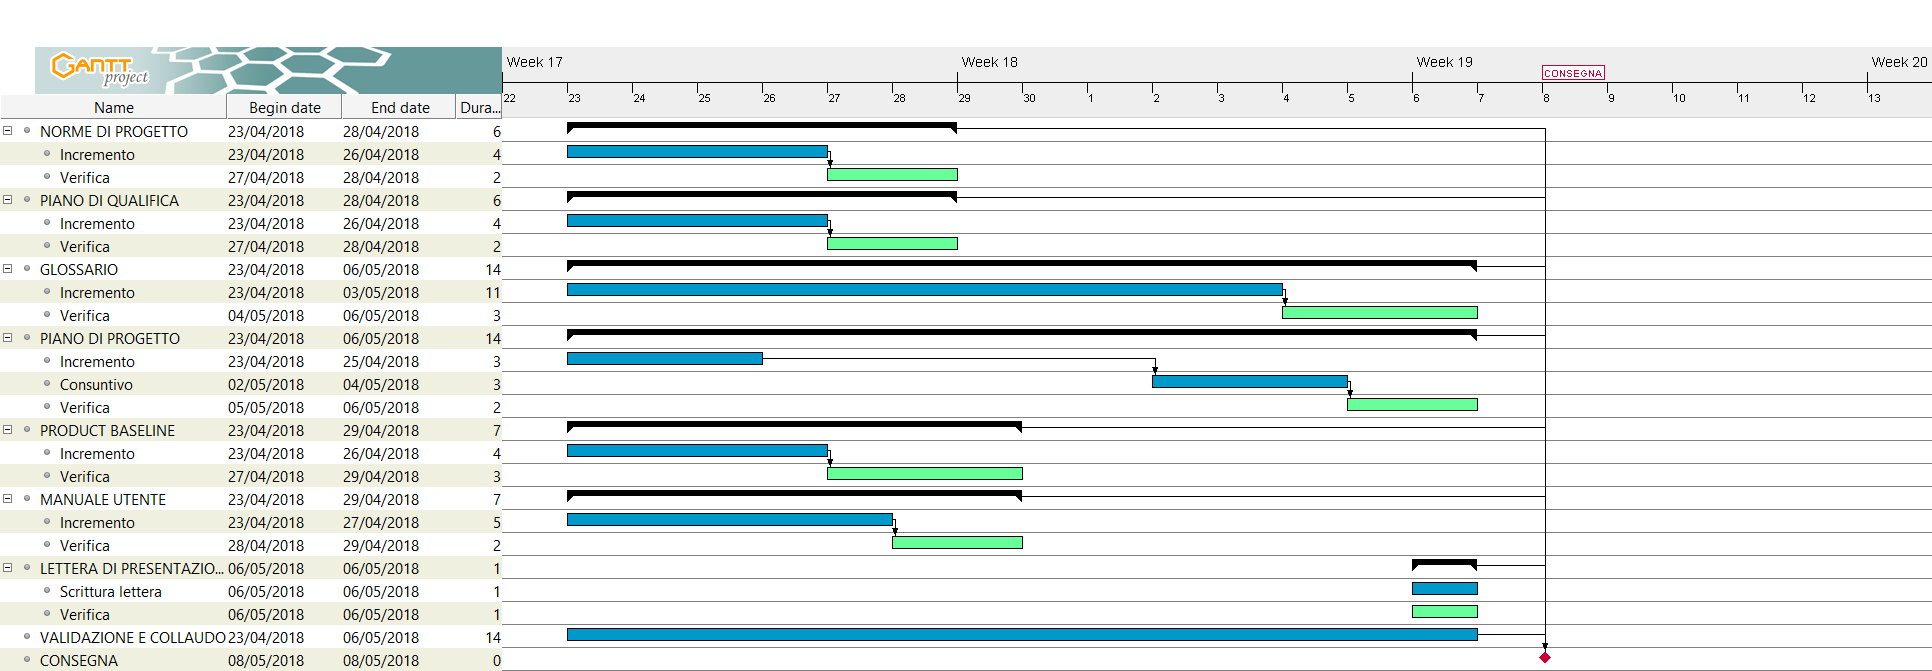
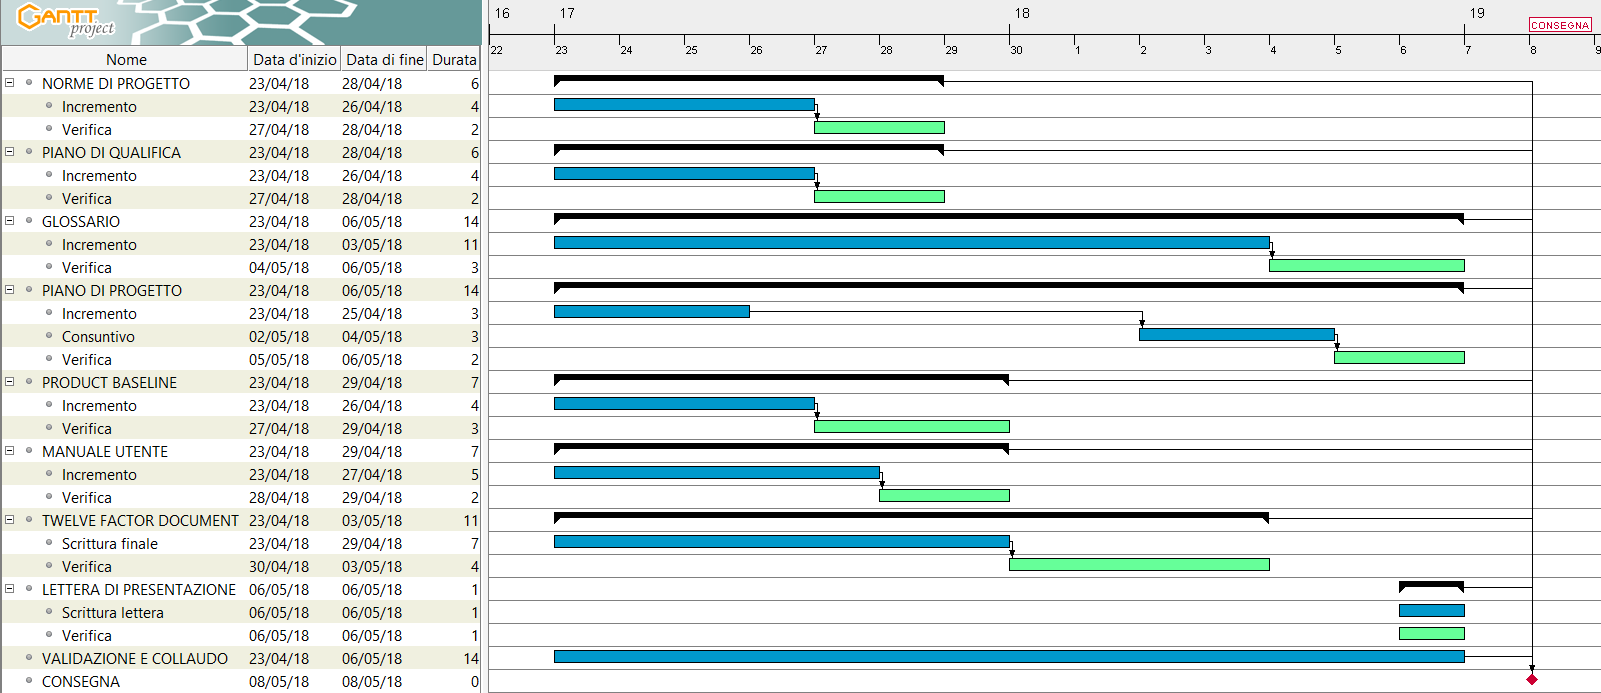
Fine modifiche post verifica pdp

diff --git a/Esterni - ENG/PianoDiProgetto/Pianificazione.tex b/Esterni - ENG/PianoDiProgetto/Pianificazione.tex
@@ -3,11 +3,11 @@
 \begin{document}
 
 \chapter{Pianificazione}
-La pianificazione del gruppo \gruppo\ è stata costruita sulla base delle scadenze riportate al punto di 1.5 di questo documento. Seguendo quelle scadenze è stato deciso di suddividere lo sviluppo in cinque periodi, raggruppati in due macro periodi:
+La pianificazione del gruppo \gruppo\ è stata costruita sulla base delle scadenze riportate al punto di \ref{scadenze} di questo documento. Seguendo quelle scadenze è stato deciso di suddividere lo sviluppo in cinque periodi, raggruppati in due macro periodi:
 \begin{itemize}
 	\item \textbf{Investimento:}
 		\begin{itemize}
-			\item \textbf{Analisi};
+			\item \textbf{Analisi dei requisiti};
 			\item \textbf{Consolidamento dei requisiti}.
 		\end{itemize}
 	\item \textbf{Preventivo:}
@@ -25,16 +25,15 @@ Sono state inoltre segnate come milestone anche le verifiche che avverranno sott
 \section{Analisi dei requisiti}
 Il periodo di analisi comincia il \nData{23}{11}{2017} e si conclude il \nData{16}{01}{2018}: l'inizio coincide con la formazione del gruppo e l'avviamento del lavoro; la conclusione con la scadenza scelta per la consegna dei documenti per l'entrata nel progetto. Durante questo periodo le attività principali svolte sono:
 \begin{itemize}
-	\item \textbf{Norme di Progetto:} questa attività consiste nella redazione delle \ndp, un documento redatto dall'Amministratore in cui sono elencate e stabilite tutte le norme a cui il gruppo \gruppo deve sottostare durante tutta la durata del progetto.\\ 
-	Questa attività è considerata critica dato che le \ndp\ sono essenziali, infatti esse stabiliscono anche le norme e gli strumenti che verranno usati per la stesura dei documenti stessi;
+	\item \textbf{Norme di Progetto:} questa attività consiste nella redazione delle \ndp, un documento redatto dall'Amministratore in cui sono elencate e stabilite tutte le norme a cui il gruppo \gruppo\ deve sottostare durante tutta la durata del progetto. Questa attività è considerata critica dato che le \ndp\ sono essenziali, infatti esse stabiliscono anche le norme e gli strumenti che verranno usati per la stesura dei documenti stessi;
 	\item \textbf{Studio di Fattibilità:} questa attività consiste nella redazione da parte degli Analisti dello \sdf, documento che contiene un'analisi dei vari capitolati proposti ed è essenziale per la scelta del capitolato che verrà svolto. L'attività è considerata critica ed è bloccante per l'inizio dell'\adr;
 	
-	\item \textbf{Analisi dei Requisiti}: questa attività prevede la stesura dell'\adr da parte degli Analisti. Questo documento contiene uno studio approfondito dei requisiti del capitolato scelto ed è un'attività importante e critica per il proseguimento del progetto;
+	\item \textbf{Analisi dei Requisiti}: questa attività prevede la stesura dell'\adr\ da parte degli Analisti. Questo documento contiene uno studio approfondito dei requisiti del capitolato scelto ed è un'attività importante e critica per il proseguimento del progetto;
 	
 	\item \textbf{Piano di Progetto:} questa attività consiste nella redazione del \pdp, documento nel quale il Responsabile analizza le attività necessarie e le loro scadenze per la buona riuscita del progetto. Inoltre durante questa attività vengono suddivise le risorse disponibili. L'attività è considerata critica e bloccante per la stesura della \lettera;
 	\item \textbf{Piano di Qualifica}: questa attività consiste nella redazione da parte degli Analisti del \pdq, dove si individuano i metodi per garantire la qualità del prodotto;
 	\item \textbf{Glossario:} questa attività consiste nella redazione del \g, dove verranno inseriti tutti i termini considerati possibilmente ambigui;
-	\item \textbf{Lettera di presentazione:} questa attività consiste nella redazione della \textit{Lettera di Presentazione} necessaria per la presentazione del gruppo \gruppo come fornitore. 	
+	\item \textbf{Lettera di presentazione:} questa attività consiste nella redazione della \textit{Lettera di Presentazione} necessaria per la presentazione del gruppo \gruppo\ come fornitore. 	
 \end{itemize}	
 \begin{landscape}
 \subsection{Analisi - Diagramma di Gantt}
@@ -48,12 +47,12 @@ Il periodo di consolidamento dei requisiti inizia il 16-01-2017 e termina il 26-
 \newpage
 
 \section{Progettazione della base tecnologica}
-Il periodo di Progettazione della base tecnologica inizia il 26-01-2017 e termina il 27-02-2017: comincia il giorno dopo la presentazione per la Revisione dei Requisiti e si conclude con la consegna dei documenti per la Revisione di Progettazione. In questo periodo, le attività principali sono:
+Il periodo di Progettazione della base tecnologica inizia il \nData{26}{01}{2017} e termina il \nData{27}{02}{2017}: comincia il giorno dopo la presentazione per la Revisione dei Requisiti e si conclude con la consegna dei documenti per la Revisione di Progettazione. In questo periodo, le attività principali sono:
 \begin{itemize}
-	\item \textbf{Incremento e Verifica:} all'inizio del periodo vengono svolte attività di Incremento e Verifica su vari documenti (\ndp, \pdp, \pdq\ e \adr) e dopo la discussione Agile per il documento \tb verrà svolta anche per quest'ultimo;
+	\item \textbf{Incremento e Verifica:} all'inizio del periodo vengono svolte attività di incremento e verifica su vari documenti (\ndp, \pdp, \pdq\ e \adr) e dopo la discussione Agile per il documento \tb\ verrà svolta anche per quest'ultimo;
 	\item \textbf{Glossario:} questa attività comprende sia il miglioramento del \g\ che l'aggiunta di nuovi termini;
-	\item \textbf{Lettera di presentazione:} questa attività prevede la stesura della \lettera per la Revisione di Progettazione;
-	\item \textbf{Technology Baseline:} questa attività prevede la stesura da parte dei Progettisti del documento \tb, contenete le scelte delle tecnologie, dei framework e delle librerie per lo sviluppo del prodotto e il Proof of Concept. Questa attività è considerata critica e bloccante per la prosecuzione del progetto. In una data ancora indefinita tra il 27-02-2017 e il 12-03-2017 avvererà una discussione in modalità Agile per la verifica di questo documento.
+	\item \textbf{Lettera di presentazione:} questa attività prevede la stesura della \lettera\ per la Revisione di Progettazione;
+	\item \textbf{Technology Baseline:} questa attività prevede la stesura da parte dei Progettisti del documento \tb, contenete le scelte delle tecnologie, dei framework e delle librerie per lo sviluppo del prodotto e il Proof of Concept. Questa attività è considerata critica e bloccante per la prosecuzione del progetto. In una data ancora indefinita tra il \nData{27}{02}{2017} e il \nData{12}{03}{2017} avvererà una discussione in modalità Agile per la verifica di questo documento.
 \end{itemize}
 \begin{landscape}
 	\subsection{Progettazione della base tecnologica - Diagramma di Gantt}
@@ -64,7 +63,7 @@ Il periodo di Progettazione della base tecnologica inizia il 26-01-2017 e termin
 \section{Progettazione di dettaglio e codifica}
 Il periodo di Progettazione di dettaglio e codifica inizia il 19-03-2018 e termina il 16-04-2017: comincia il giorno stesso della Revisione di Progettazione e si conclude con la consegna dei documenti per la Revisione di Qualifica. Durante questo periodo le attività principali svolte sono:
 \begin{itemize}
-	\item \textbf{Incremento e Verifica:} all'inizio del periodo vengono svolte attività di Incremento e Verifica su vari documenti (\ndp, \pdp, \pdq\ e \tb);
+	\item \textbf{Incremento e Verifica:} all'inizio del periodo vengono svolte attività di incremento e verifica su vari documenti (\ndp, \pdp, \pdq\ e \tb);
 	\item \textbf{Glossario:} questa attività comprende sia il miglioramento del \g\ che l'aggiunta di nuovi termini;
 	\item \textbf{Lettera di presentazione:} questa attività prevede la stesura della lettera di presentazione per la Revisione di Qualifica;
 	\item \textbf{Product Baseline:} questa attività presenta la \textit{baseline} architetturale del prodotto tramite i  diagrammi delle classi e di sequenza, mostrandone la coerenza con quanto mostrato durante l'attività di Technology Baseline. 
@@ -81,9 +80,10 @@ Il periodo di Progettazione di dettaglio e codifica inizia il 19-03-2018 e termi
 \section{Validazione e collaudo}
 Il periodo di Validazione e collaudo inizia con il 23-04-2018 e termina il 07-05-2018: comincia il giorno stesso della Revisione di Qualifica e si conclude con la consegna dei documenti per la Revisione di Accettazione. Durante questo periodo le attività principali svolte sono:
 \begin{itemize}
-\item \textbf{Incremento e Verifica:} all’inizio del periodo vengono svolte attività di Incremento e Verifica su vari documenti (\ndp, \pdp, \pdq, \pb e 12 \tfd) seguendo le indicazioni risultanti dalla Revisione di Qualifica;
+\item \textbf{Incremento e Verifica:} all’inizio del periodo vengono svolte attività di incremento e verifica su vari documenti (\ndp, \pdp, \pdq\ e \pb) seguendo le indicazioni risultanti dalla Revisione di Qualifica;
 \item \textbf{Glossario:} questa attività comprende sia il miglioramento del \g\ che l’aggiunta dei nuovi termini;
 \item \textbf{Validazione e Collaudo:} questa attività consiste nell’esecuzione di ulteriori test e miglioramenti dell'applicazione prodotto per assicurare che soddisfi tutti i vincoli qualitativi;
+\item \textbf{Twelve Factor Document:} questa attività prevede la stesura finale del documento \tfd;
 \item \textbf{Manuale Utente:} questa attività consiste nel miglioramento e completamento del \mut, contenente indicazioni sull’utilizzo dell'applicazione.
 
 \end{itemize}

diff --git a/Esterni - ENG/PianoDiProgetto/Preventivo.tex b/Esterni - ENG/PianoDiProgetto/Preventivo.tex
@@ -5,10 +5,16 @@
 \tabulinesep = ^3mm_2mm
 
 \chapter{Suddivisione risorse e preventivo}
-
-%TODO manca introduzione alla suddivisione 
-%TODO parlando della rotazione
-
+La suddivisione oraria viene fatta tenendo conto di \textbf{quattro regole} principali:
+\begin{enumerate}
+	\item Tutti i membri devono coprire tutti i ruoli di progetto almeno una volta;
+	\item In tutti i periodi tutti i membri devono lavorare lo stesso numero di ore;
+	\item Ogni membro del gruppo dovrà lavorare in totale ad almeno 8 ore per ogni figura di progetto, in modo da apprendere a pieno i compiti dei vari ruoli;
+	\item Il totale delle ore di lavoro dei vari membri per ogni ruolo dovrà essere più o meno equivalente.
+\end{enumerate}
+Per il preventivo si tiene conto che i periodi di Analisi dei requisiti e di Consolidamento dei requisiti sono considerati di investimento non a carico del committente, per cui le ore qui rendicontate non saranno conteggiate nelle ore totali da retribuire.\\\\
+Per facilitare la lettura delle tabelle gli i valori pari a 0 (zero) sono stati omessi, lasciando uno spazio vuoto.
+\newpage
 \section{Analisi dei requisiti}
 \subsection{Prospetto Orario}
 Nel periodo di Analisi la distribuzione oraria è la seguente:
@@ -34,11 +40,10 @@ Nel periodo di Analisi la distribuzione oraria è la seguente:
 			\Riccardo &  & 11 & 4 &  &  & 10 & 25 \\
 			\Valentina & 5 & 8 & 4 &  &  & 8 & 25 \\
 		\end{tabu}
-		\caption{Distribuzione oraria del periodo di Analisi}
+		\caption{Distribuzione oraria del periodo di Analisi dei requisiti}
 		\vspace{-1em}
 	\end{center}
-\end{table}
-\newpage	
+\end{table}	
 Il seguente grafico dà una rappresentazione visiva della suddivisione oraria:
 \nImg{images/prospettoOrario/analisi.png}{Grafico suddivisione oraria del periodo di Analisi}{14.5}
 \subsection{Prospetto Economico}
@@ -60,13 +65,12 @@ Nel periodo di Analisi la distribuzione delle ore tra i differenti ruoli è la s
 			\vere & 51 & 765,00 \\
 			\textbf{Totale} & \textbf{175} & \textbf{3.720,00} \\
 		\end{tabu}
-		\caption{Prospetto economico del periodo di Analisi}
+		\caption{Prospetto economico del periodo di Analisi dei requisiti}
 		\vspace{-1em}
 	\end{center}
 \end{table}
-\newpage
 Il seguente grafico dà una rappresentazione visiva della distribuzione dei ruoli:
-\nImg{images/prospettoEconomico/analisi.png}{Grafico suddivisione dei ruoli del periodo di Analisi}{14.5}
+\nImg{images/prospettoEconomico/analisi.png}{Grafico suddivisione dei ruoli del periodo di Analisi}{12}
 \newpage
 \section{Consolidamento dei requisiti}
 \subsection{Prospetto Orario}

diff --git a/Esterni - ENG/PianoDiProgetto/AnalisiDeiRischi.tex b/Esterni - ENG/PianoDiProgetto/AnalisiDeiRischi.tex
@@ -9,7 +9,6 @@ Nella seguente tabella è stata effettuata un’analisi approfondita dei rischi 
 % per tabelle, alterna i colori delle righe		
 \taburowcolors[2] 2{tableLineOne .. tableLineTwo}
 \tabulinesep = ^3mm_2mm
-
 \begin{longtabu} to \linewidth { >{\centering}m{.15\linewidth} >{\raggedright}m{.33\linewidth} >{\raggedright}m{0.25\linewidth} >{\centering}m{0.17\linewidth} }
 	\caption[Tabella descrittiva dell'analisi dei rischi]{Tabella descrittiva dell'analisi dei rischi}
 	\endlastfoot
@@ -121,7 +120,7 @@ Nella seguente tabella è stata effettuata un’analisi approfondita dei rischi 
 	\rowcolor{tableLineTwo} Piano di contingenza:
 	&
 	\multicolumn{3}{m{0.8075\linewidth}}{\small Si effettueranno backup bi-settimanali dei 
-		dati Asana e Github, basandosi sull'affidabilità degli strumenti scelti.}\\
+		dati Asana e Github, basandosi sull'affidabilità degli strumenti scelti. Potrà essere utilizzato anche Turbo\footnote{\nURI{https://turbo.net/}} in caso di malfunzionamenti per avere un'immediata disponibilità dei software da utilizzare.}\\
 	\hhline{====}
 	
 	
@@ -153,7 +152,6 @@ Nella seguente tabella è stata effettuata un’analisi approfondita dei rischi 
 	&
 	\multicolumn{3}{m{0.8075\linewidth}}{\small In caso di un cambiamento sostanzioso dei requisiti, il gruppo  discuterà tali cambiamenti con la Proponente in modo da trovare un punto di accordo.}\\
 	\hhline{====}
-	
-	
+		
 \end{longtabu}
 \end{document}

diff --git a/Esterni - ENG/PianoDiProgetto/introduzione.tex b/Esterni - ENG/PianoDiProgetto/introduzione.tex
@@ -67,6 +67,7 @@ Nel dettaglio il documento coprirà:
 \end{itemize}
 
 \section{Scadenze}
+\label{scadenze}
 Il gruppo \gruppo\ ha deciso di rispettare le seguenti scadenze, su cui si basa la pianificazione, per lo svolgimento del progetto:
 \begin{itemize}
 	\item \textbf{Revisione dei Requisiti:} \nData{26}{01}{2018};
